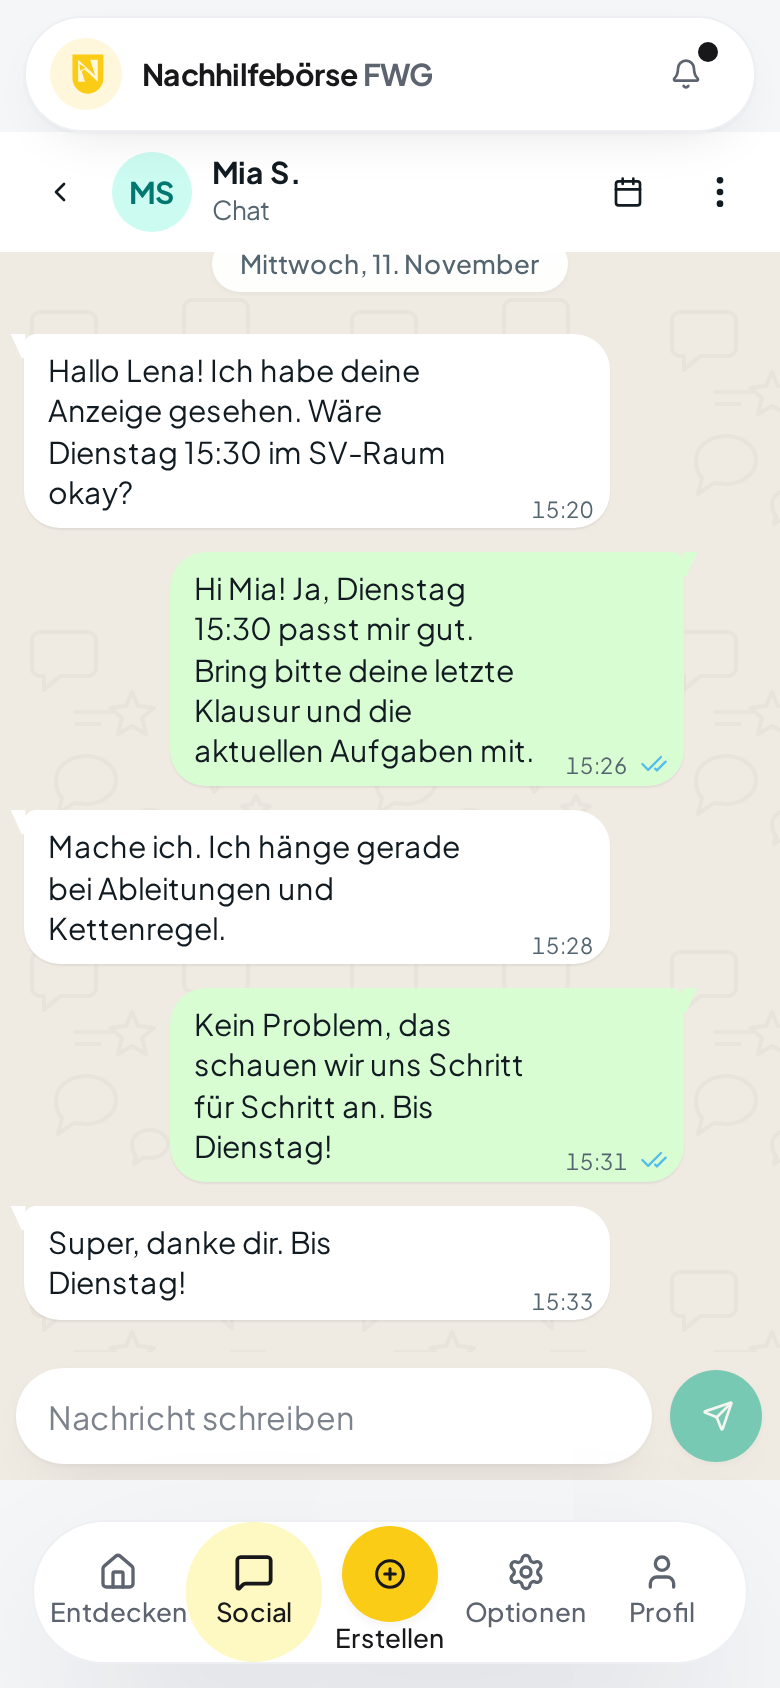
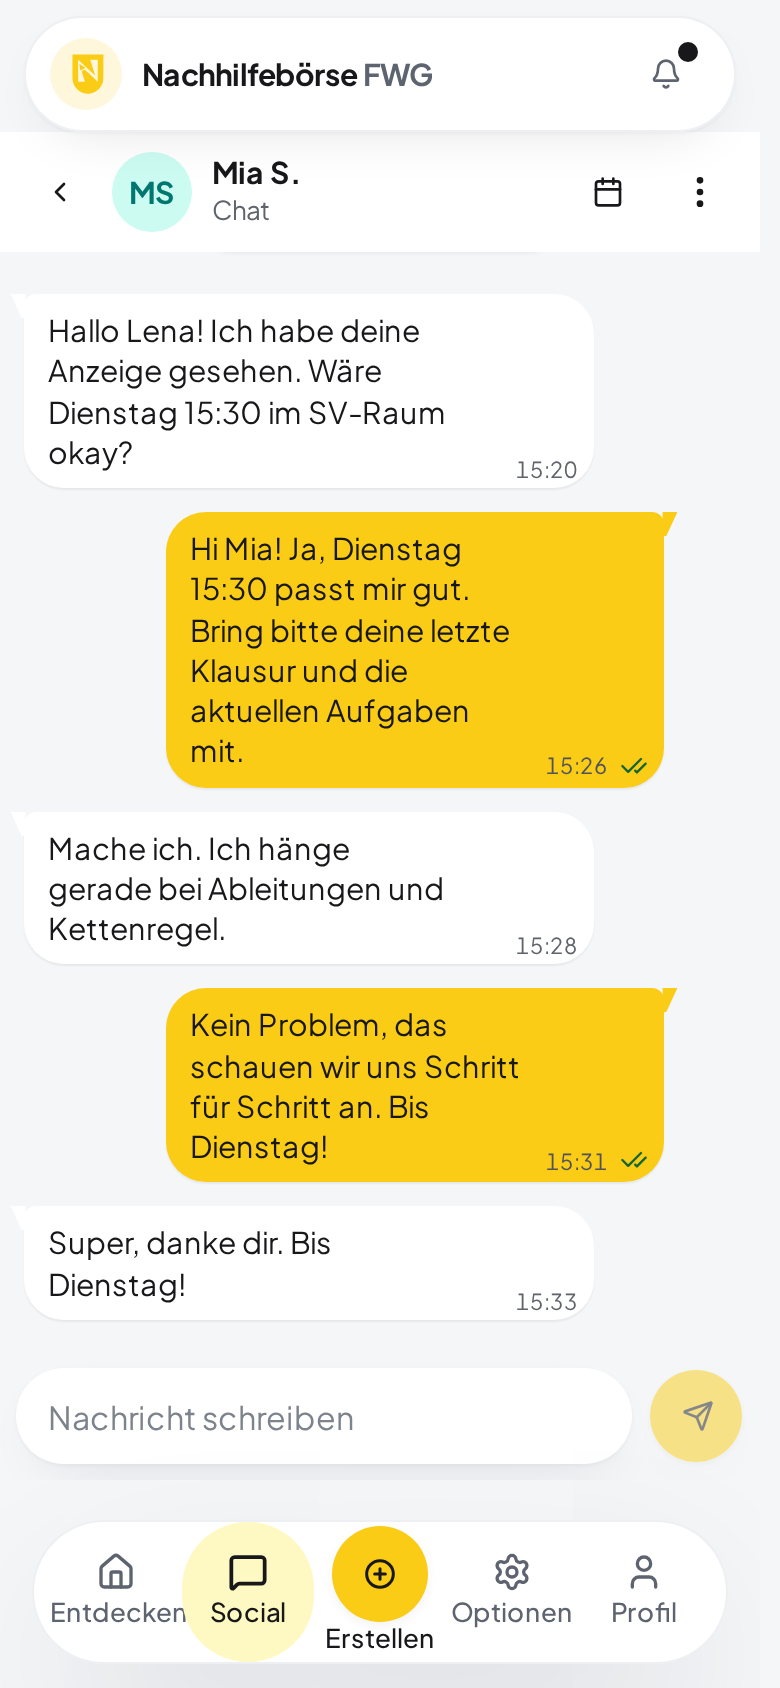
Design v2: Chat-Farben

diff --git a/src/index.css b/src/index.css
@@ -113,12 +113,6 @@
 
   .chat-surface {
     background-color: var(--chat-bg);
-    background-image: url("/chat-pattern-light.svg");
-    background-repeat: repeat;
-    background-size: 160px 160px;
-  }
-  .dark .chat-surface {
-    background-image: url("/chat-pattern-dark.svg");
   }
 
   .screenshot-fade {
@@ -305,7 +299,7 @@
   --radius-field: 1.25rem;
   --radius-card: 1.75rem;
   --radius-dialog: 2rem;
-  --radius-chat: 1.125rem;
+  --radius-chat: 1.25rem;
   --radius-chat-corner: 0.375rem;
   --radius-panel: 2.25rem;
 }
@@ -363,18 +357,18 @@
   --sidebar-accent-foreground: #18181b;
   --sidebar-border: #e6e8ec;
   --sidebar-ring: #facc15;
-  --chat-bg: #efeae2;
+  --chat-bg: #f5f6f8;
   --chat-header: #ffffff;
-  --chat-own: #d9fdd3;
+  --chat-own: #facc15;
   --chat-other: #ffffff;
-  --chat-text: #111b21;
-  --chat-meta: #54656f;
-  --chat-meta-own: #54656f;
-  --chat-tick-sent: #667781;
-  --chat-tick-read: #53bdeb;
-  --chat-send: #00a884;
-  --chat-chip: rgb(255 255 255 / 0.92);
-  --chat-border: #e9edef;
+  --chat-text: #18181b;
+  --chat-meta: #5f636b;
+  --chat-meta-own: #52525b;
+  --chat-tick-sent: #52525b;
+  --chat-tick-read: #166534;
+  --chat-send: #facc15;
+  --chat-chip: rgb(255 255 255 / 0.94);
+  --chat-border: #e6e8ec;
   --chat-composer: #ffffff;
 }
 
@@ -430,17 +424,17 @@
   --sidebar-accent-foreground: #fef08a;
   --sidebar-border: #2a2d34;
   --sidebar-ring: #facc15;
-  --chat-bg: #0b141a;
-  --chat-header: #202c33;
-  --chat-own: #005c4b;
-  --chat-other: #202c33;
-  --chat-text: #e9edef;
-  --chat-meta: #8696a0;
-  --chat-meta-own: #b8c6cb;
-  --chat-tick-sent: #8696a0;
-  --chat-tick-read: #53bdeb;
-  --chat-send: #00a884;
-  --chat-chip: rgb(32 44 51 / 0.9);
-  --chat-border: #2a3942;
-  --chat-composer: #202c33;
+  --chat-bg: #0b0c0f;
+  --chat-header: #141519;
+  --chat-own: #facc15;
+  --chat-other: #1d1f24;
+  --chat-text: #f5f5f7;
+  --chat-meta: #a1a1aa;
+  --chat-meta-own: #3f3f46;
+  --chat-tick-sent: #3f3f46;
+  --chat-tick-read: #14532d;
+  --chat-send: #facc15;
+  --chat-chip: rgb(29 31 36 / 0.94);
+  --chat-border: #2a2d34;
+  --chat-composer: #1d1f24;
 }

diff --git a/src/pages/Chat.tsx b/src/pages/Chat.tsx
@@ -372,8 +372,8 @@ export default function Chat() {
                                     <div
                                         onClick={() => isMe && setMenuOpenId(prev => prev === msg.id ? null : msg.id)}
                                         className={cn(
-                                            "relative min-w-[86px] break-words rounded-chat px-3 py-2 text-[15px] leading-[1.35] text-chat-text shadow-[0_1px_1px_rgba(11,20,26,0.06)]",
-                                            isMe ? "bg-chat-own" : "bg-chat-other",
+                                            "relative min-w-[86px] break-words rounded-chat px-3 py-2 text-[15px] leading-[1.35] shadow-[0_1px_1px_rgba(11,20,26,0.06)]",
+                                            isMe ? "bg-chat-own text-primary-foreground" : "bg-chat-other text-foreground",
                                             firstInGroup && (isMe ? "rounded-tr-chat-corner" : "rounded-tl-chat-corner"),
                                             msg.is_deleted && "italic opacity-70"
                                         )}
@@ -501,7 +501,7 @@ export default function Chat() {
                     <Button
                         type="submit"
                         size="icon"
-                        className="size-12 shrink-0 rounded-full bg-chat-send text-white shadow-soft hover:-translate-y-0.5 hover:bg-chat-send hover:shadow-card active:scale-[0.98]"
+                        className="size-12 shrink-0 rounded-full bg-chat-send text-primary-foreground shadow-soft hover:-translate-y-0.5 hover:bg-primary-hover hover:text-primary-foreground hover:shadow-card active:scale-[0.98]"
                         disabled={!newMessage.trim()}
                         aria-label="Nachricht senden"
                     >
